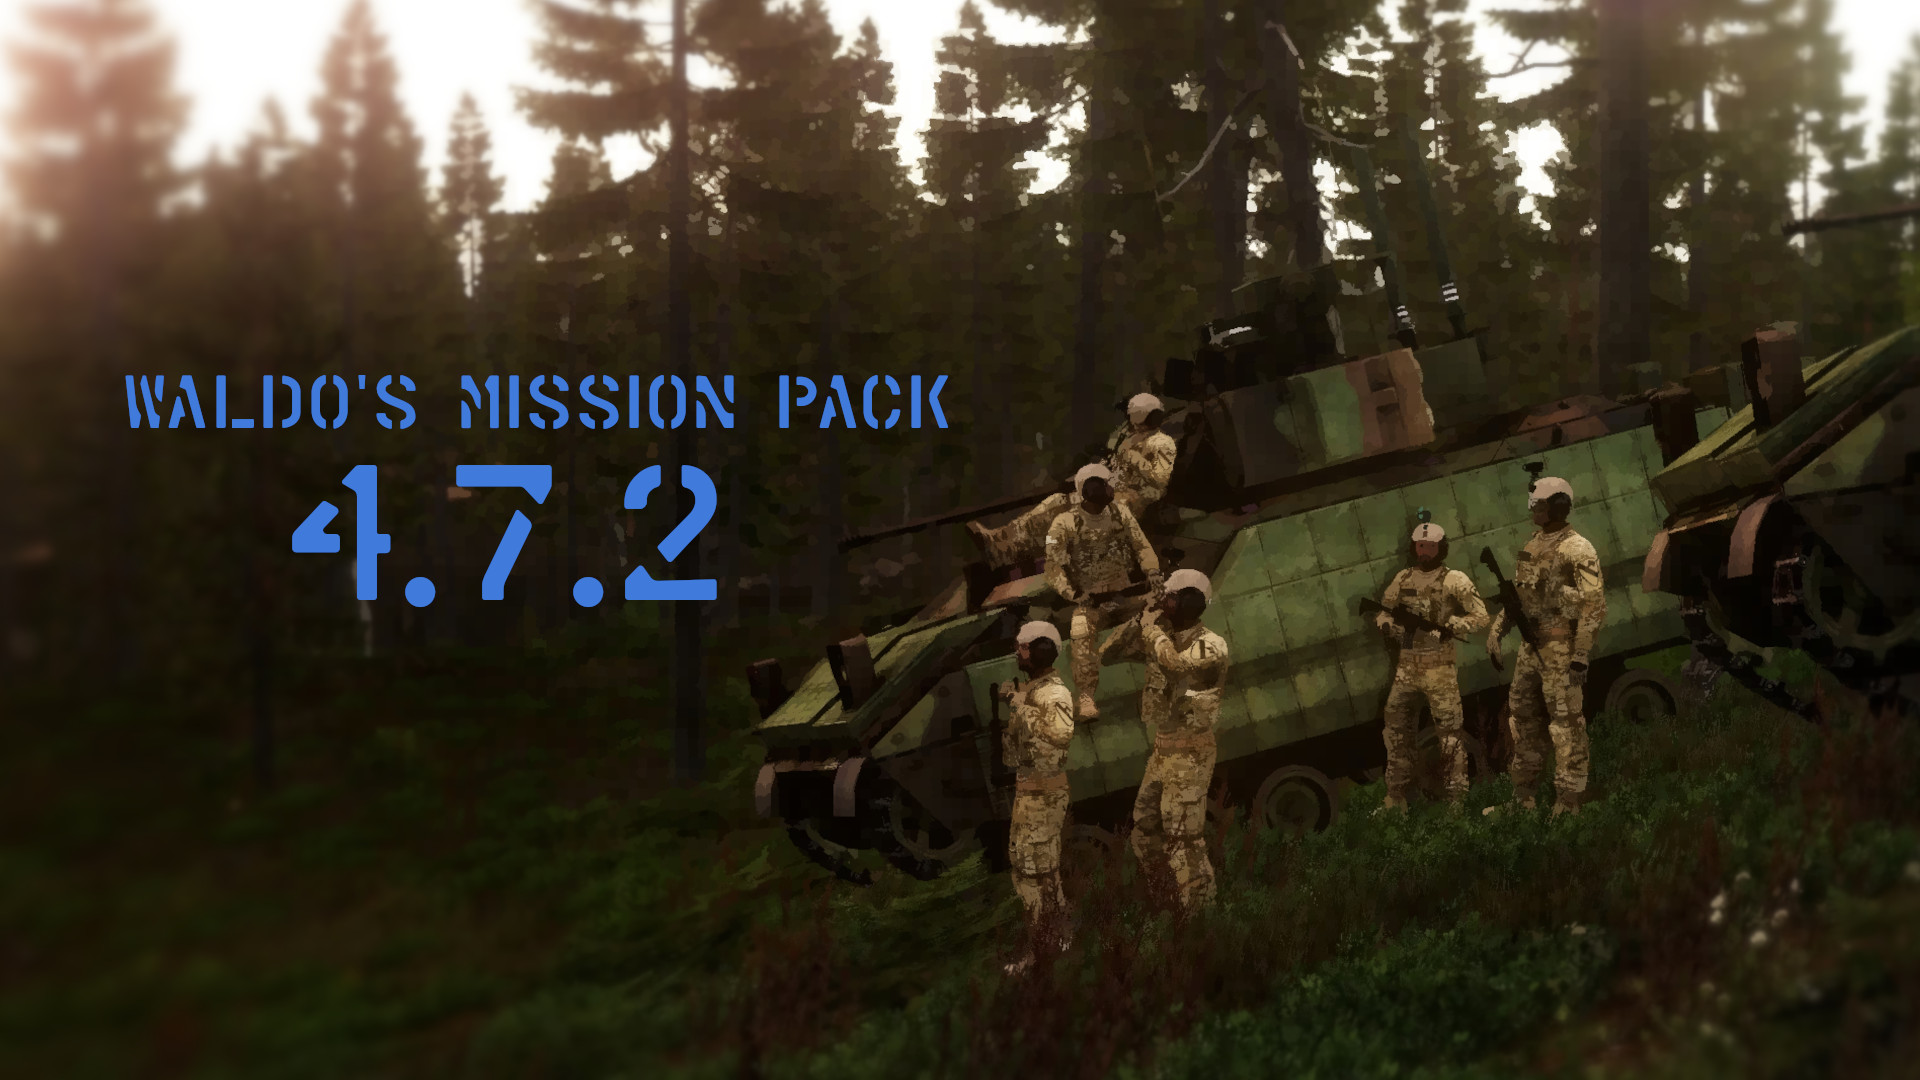
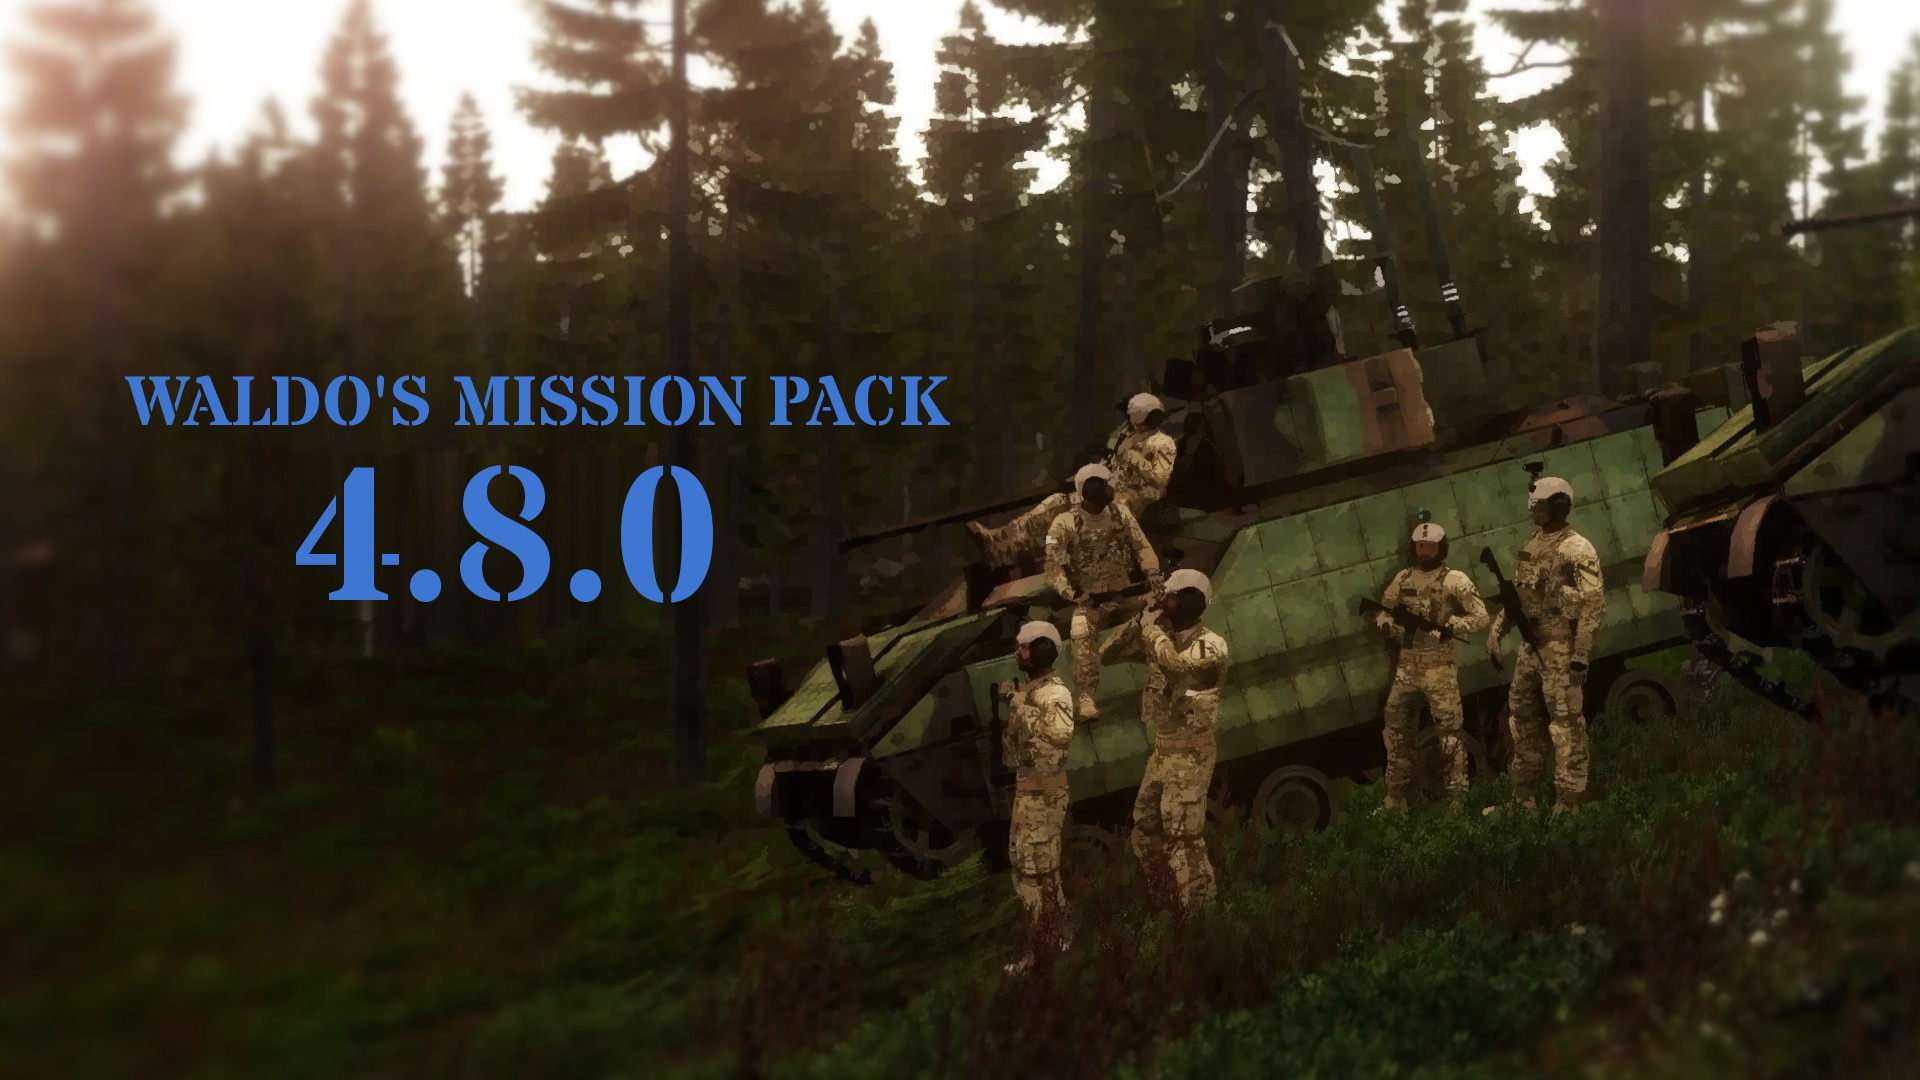
Auto-generate cover/loading screen with current version
Render the title and version onto Pictures/loading.jpg programmatically so the
cover never shows a stale version. Updates the image to v4.8.0.

- generateLoadingScreen.py: draws the title + version (parsed from
  description.ext onLoadName, or passed explicitly) onto a text-free base image
  using the bundled Stardos Stencil font (OFL).
- loadingAssets/: base image, font and licence; lives under
  releaseVerificationAndDeployment/ so it is excluded from every build's notlist
  and never ships - only the generated Pictures/loading.jpg does.
- update-cover.yml: on push to main touching description.ext, regenerate and
  commit the image back.
- deploy.sh / deploy.yml: regenerate from the release tag before packing so each
  released zip matches the tag; install Pillow in CI.
- Docs: CLAUDE.md, README, new wiki page + sidebar; fixed stale v4.7.2 wiki ref.

Claude-Session: https://claude.ai/code/session_016YTtpEM7m2noinbDJqPDJb

Changed region(s): [[0.0625, 0.3361, 0.5, 0.3972], [0.125, 0.4278, 0.375, 0.5806]]

diff --git a/releaseVerificationAndDeployment/generateLoadingScreen.py b/releaseVerificationAndDeployment/generateLoadingScreen.py
@@ -1,0 +1,99 @@
+#!/usr/bin/env python3
+"""
+Author: Waldo
+Generates the WaldosMissionPack cover/loading screen (Pictures/loading.jpg) by
+rendering the "WALDO'S MISSION PACK" title and the current version number onto a
+text-free base image with the bundled Stardos Stencil font.
+
+The version is taken from the first positional argument (e.g. "4.8.0" or
+"v4.8.0"); if omitted it is parsed from description.ext's onLoadName field. This
+keeps the cover image in sync with the version automatically (see the
+update-cover.yml workflow and deploy.sh).
+
+Arguments:
+  version   - str  - Version to render (optional; default: parsed from description.ext)
+  --base    - path - Text-free background image (optional, default: loadingAssets/loading_base.jpg)
+  --out     - path - Output image (optional, default: Pictures/loading.jpg)
+  --desc    - path - description.ext to parse when no version arg is given (optional)
+  --font    - path - Stencil font (optional, default: loadingAssets/StardosStencil-Bold.ttf)
+
+Return Value:
+  Writes the JPEG to --out. Exits non-zero on any unresolved input.
+
+Example:
+  python3 releaseVerificationAndDeployment/generateLoadingScreen.py
+  python3 releaseVerificationAndDeployment/generateLoadingScreen.py 4.8.0
+"""
+
+import argparse
+import os
+import re
+import sys
+
+from PIL import Image, ImageDraw, ImageFont
+
+# --- Layout calibration (measured against the original 1920x1080 cover image) ---
+TITLE_TEXT = "WALDO'S MISSION PACK"
+TEXT_COLOR = (62, 118, 211)   # steel blue, sampled from the original text
+TITLE_SIZE = 70               # px -> rendered title ~825x51 (original ~822x53)
+TITLE_XY = (125, 375)         # top-left anchor of the visible glyphs
+VERSION_SIZE = 190            # px -> rendered "4.7.2" ~428x137 (original ~424x141)
+VERSION_XY = (292, 465)       # top-left anchor of the visible glyphs
+JPEG_QUALITY = 92
+
+SCRIPT_DIR = os.path.dirname(os.path.realpath(__file__))
+PROJECT_ROOT = os.path.dirname(SCRIPT_DIR)
+ASSET_DIR = os.path.join(SCRIPT_DIR, "loadingAssets")
+
+DEFAULT_BASE = os.path.join(ASSET_DIR, "loading_base.jpg")
+DEFAULT_FONT = os.path.join(ASSET_DIR, "StardosStencil-Bold.ttf")
+DEFAULT_OUT = os.path.join(PROJECT_ROOT, "Pictures", "loading.jpg")
+DEFAULT_DESC = os.path.join(PROJECT_ROOT, "description.ext")
+
+
+def parse_version_from_desc(desc_path):
+    """Extract X.Y[.Z] from the onLoadName field of description.ext."""
+    try:
+        with open(desc_path, "r", encoding="utf-8", errors="replace") as fh:
+            text = fh.read()
+    except OSError as exc:
+        sys.exit("ERROR: cannot read description.ext ({}): {}".format(desc_path, exc))
+    match = re.search(r'onLoadName\s*=\s*"[^"]*v(\d+\.\d+(?:\.\d+)?)"', text)
+    if not match:
+        sys.exit("ERROR: could not parse a version from onLoadName in " + desc_path)
+    return match.group(1)
+
+
+def draw_line(draw, text, font, target_xy):
+    """Draw text so the top-left of its visible glyphs sits at target_xy."""
+    left, top, _, _ = draw.textbbox((0, 0), text, font=font)
+    draw.text((target_xy[0] - left, target_xy[1] - top), text, font=font, fill=TEXT_COLOR)
+
+
+def main():
+    parser = argparse.ArgumentParser(description="Generate the WMP loading screen.")
+    parser.add_argument("version", nargs="?", help="Version to render (default: from description.ext)")
+    parser.add_argument("--base", default=DEFAULT_BASE)
+    parser.add_argument("--out", default=DEFAULT_OUT)
+    parser.add_argument("--desc", default=DEFAULT_DESC)
+    parser.add_argument("--font", default=DEFAULT_FONT)
+    args = parser.parse_args()
+
+    version = args.version.lstrip("vV") if args.version else parse_version_from_desc(args.desc)
+
+    for path, label in ((args.base, "base image"), (args.font, "font")):
+        if not os.path.isfile(path):
+            sys.exit("ERROR: {} not found: {}".format(label, path))
+
+    image = Image.open(args.base).convert("RGB")
+    draw = ImageDraw.Draw(image)
+    draw_line(draw, TITLE_TEXT, ImageFont.truetype(args.font, TITLE_SIZE), TITLE_XY)
+    draw_line(draw, version, ImageFont.truetype(args.font, VERSION_SIZE), VERSION_XY)
+
+    os.makedirs(os.path.dirname(args.out), exist_ok=True)
+    image.save(args.out, "JPEG", quality=JPEG_QUALITY)
+    print("Wrote {} (version {})".format(args.out, version))
+
+
+if __name__ == "__main__":
+    main()

diff --git a/wiki/Cover-Loading-Screen-Generation.md b/wiki/Cover-Loading-Screen-Generation.md
@@ -1,0 +1,54 @@
+**Associated Files:** `releaseVerificationAndDeployment/generateLoadingScreen.py`, `releaseVerificationAndDeployment/loadingAssets/` (base image + font + licence), `.github/workflows/update-cover.yml`, `.github/workflows/deploy.yml`, `releaseVerificationAndDeployment/deploy.sh`, `Pictures/loading.jpg`
+
+## Overview
+
+The pack's cover image — `Pictures/loading.jpg`, used as the in-game `loadScreen` / `overviewPicture` and as the README banner — is **generated**, not hand-edited. The "WALDO'S MISSION PACK" title and the version number are rendered onto a text-free background image so the displayed version can never fall out of sync with the pack.
+
+The version comes from a single source of truth: the `onLoadName` field in `description.ext` (e.g. `onLoadName = "Mission Pack v4.8.0";`). Bump the version there and the cover image follows automatically.
+
+## How it stays in sync
+
+| When | What happens |
+|---|---|
+| You push a change to `description.ext` on `main` | `update-cover.yml` regenerates `Pictures/loading.jpg` and commits it back to `main`. |
+| A GitHub release is published | `deploy.sh` regenerates the image from the release tag before packing, so every released zip ships the correct version. |
+
+Both paths call the same script, `generateLoadingScreen.py`, which draws the text with the bundled **Stardos Stencil** font (SIL Open Font License — see `loadingAssets/OFL.txt`).
+
+The generator and its assets live in `releaseVerificationAndDeployment/loadingAssets/`. That folder is inside `releaseVerificationAndDeployment`, which every build already excludes (`notlist` in `config.json`), so the base image, font and script are **never shipped to mission makers** — only the finished `Pictures/loading.jpg` is.
+
+## Regenerating the image by hand
+
+```bash
+pip install -r releaseVerificationAndDeployment/requirements.txt   # installs Pillow
+# Render using the version in description.ext:
+python3 releaseVerificationAndDeployment/generateLoadingScreen.py
+# Or render an explicit version:
+python3 releaseVerificationAndDeployment/generateLoadingScreen.py 4.8.0
+```
+
+Options:
+
+| Argument | Purpose |
+|---|---|
+| `version` (positional) | Version to render, e.g. `4.8.0` or `v4.8.0`. Omit to parse it from `description.ext`. |
+| `--base PATH` | Text-free background image (default `loadingAssets/loading_base.jpg`). |
+| `--out PATH` | Output path (default `Pictures/loading.jpg`). |
+| `--desc PATH` | `description.ext` to read when no version is passed. |
+| `--font PATH` | Stencil font (default `loadingAssets/StardosStencil-Bold.ttf`). |
+
+## Customising the look
+
+The visual layout constants are grouped at the top of `generateLoadingScreen.py`:
+
+- `TEXT_COLOR` — the blue used for both lines (RGB).
+- `TITLE_SIZE` / `VERSION_SIZE` — font sizes in pixels.
+- `TITLE_XY` / `VERSION_XY` — top-left anchor of each line of glyphs.
+- `JPEG_QUALITY` — output quality.
+
+To use your own background, replace `loadingAssets/loading_base.jpg` with a 1920x1080 image that has **no** title/version text in it (the script draws the text on top). To change the typeface, drop a new `.ttf` in `loadingAssets/`, update its licence file, and point `--font` (or `DEFAULT_FONT`) at it.
+
+## See also
+
+- [Mission Configuration Reference](https://github.com/AdamWaldie/WaldosMissionPack/wiki/Mission-Configuration-Reference) — `onLoadName` and other `description.ext` fields.
+- [Coding Standards](https://github.com/AdamWaldie/WaldosMissionPack/wiki/Coding-Standards) — documentation standard followed here.

diff --git a/CLAUDE.md b/CLAUDE.md
@@ -62,6 +62,22 @@ python3 releaseVerificationAndDeployment/build.py --build config_ExemplarMission
 
 Build config: `releaseVerificationAndDeployment/config.json` — controls excluded paths (`notlist`) and the output name/version. Output zips land in `release/`. The deploy workflow triggers on GitHub release publish and uploads 5 artifacts: main WMP pack, patch, Compositions, Unit Insignias, and Exemplar Mission.
 
+### Cover / Loading Screen Generation
+
+The cover image `Pictures/loading.jpg` (the in-game `loadScreen`/`overviewPicture` and the README banner) is **generated** — the title and version number are rendered programmatically so the version never goes stale. The version is read from `description.ext`'s `onLoadName` (e.g. `"Mission Pack v4.8.0"`).
+
+```bash
+# Regenerate locally (requires Pillow): version parsed from description.ext
+pip install -r releaseVerificationAndDeployment/requirements.txt
+python3 releaseVerificationAndDeployment/generateLoadingScreen.py
+# or render an explicit version:
+python3 releaseVerificationAndDeployment/generateLoadingScreen.py 4.8.0
+```
+
+`generateLoadingScreen.py` draws onto a text-free base image with the bundled Stardos Stencil font. The generator, base image, font and its OFL license live under `releaseVerificationAndDeployment/loadingAssets/` — which is inside the `releaseVerificationAndDeployment` folder already in every build's `notlist`, so **these dev assets never ship**; only the generated `Pictures/loading.jpg` does (Pictures is included in the main and Exemplar builds, excluded in the Unit Insignias build). Layout constants (font sizes, blue colour, x/y anchors) are at the top of the script.
+
+Two workflows keep it in sync: `.github/workflows/update-cover.yml` regenerates and commits `Pictures/loading.jpg` back to `main` whenever `description.ext` changes; `deploy.sh` regenerates it (from the release tag) before packing so each released zip matches the tag.
+
 ---
 
 ## Architecture

diff --git a/wiki/Mission-Configuration-Reference.md b/wiki/Mission-Configuration-Reference.md
@@ -10,7 +10,7 @@ Located in the mission root. Sets mission metadata, respawn rules, and includes 
 
 ```sqf
 author      = "YOURNAMEHERE";       // Your name, shown on the loading screen
-onLoadName  = "Mission Pack v4.7.2"; // Mission title — also used by Waldo_fnc_InfoText
+onLoadName  = "Mission Pack v4.8.0"; // Mission title — also used by Waldo_fnc_InfoText
 onLoadMission = "YOURTEXTHERE";     // Mission subtitle
 onLoadIntro   = "YOURTEXTHERE";     // Additional intro subtitle
 loadScreen    = "Pictures\loading.jpg"; // Replace with your own image

diff --git a/README.md b/README.md
@@ -27,6 +27,7 @@ to utilise critical systems of arma 3. Now, it is in continued use by at least f
 - [WIP] Virtual Vehicle Deployment Garage
 - Extensively documented files to learn how it works, and make use of this pack!
 - Mission Pack Compositions to hasten the learning and mission building process
+- Auto-generated cover/loading screen - the title and version are rendered programmatically from description.ext and kept in sync on every push and release.
 
 
 # QuickStart Guide

diff --git a/wiki/_Sidebar.md b/wiki/_Sidebar.md
@@ -34,5 +34,6 @@
     * [ACRE 2 Automated CEOI](https://github.com/AdamWaldie/WaldosMissionPack/wiki/ACRE2-Automated-CEOI-Document)
     * [ACRE 2 Babel Autoconfig](https://github.com/AdamWaldie/WaldosMissionPack/wiki/ACRE2-Babel-Configuration)
     * **Miscellaneous**
+    * [Cover / Loading Screen Generation](https://github.com/AdamWaldie/WaldosMissionPack/wiki/Cover-Loading-Screen-Generation)
     * [Unit Insignias](https://github.com/AdamWaldie/WaldosMissionPack/wiki/Unit-Insignias)
     * [Mission Maker Resource Scripts](https://github.com/AdamWaldie/WaldosMissionPack/wiki/Mission-Maker-Resource-Scripts)